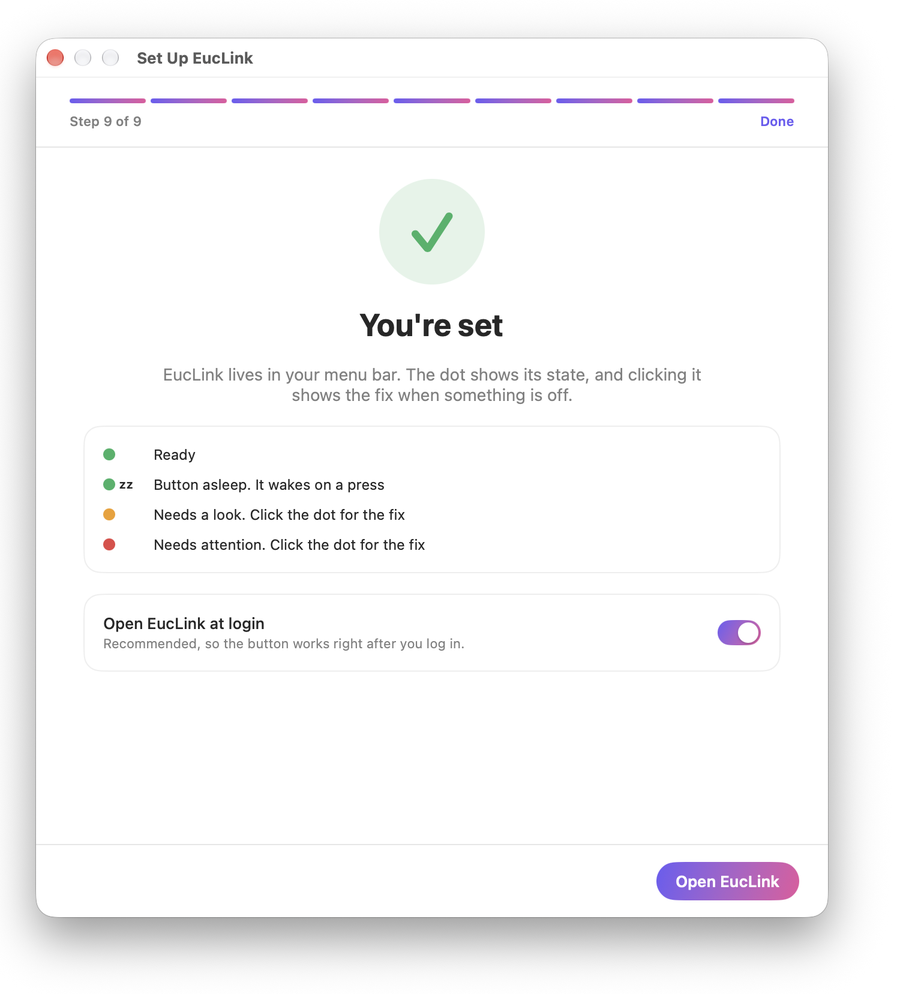
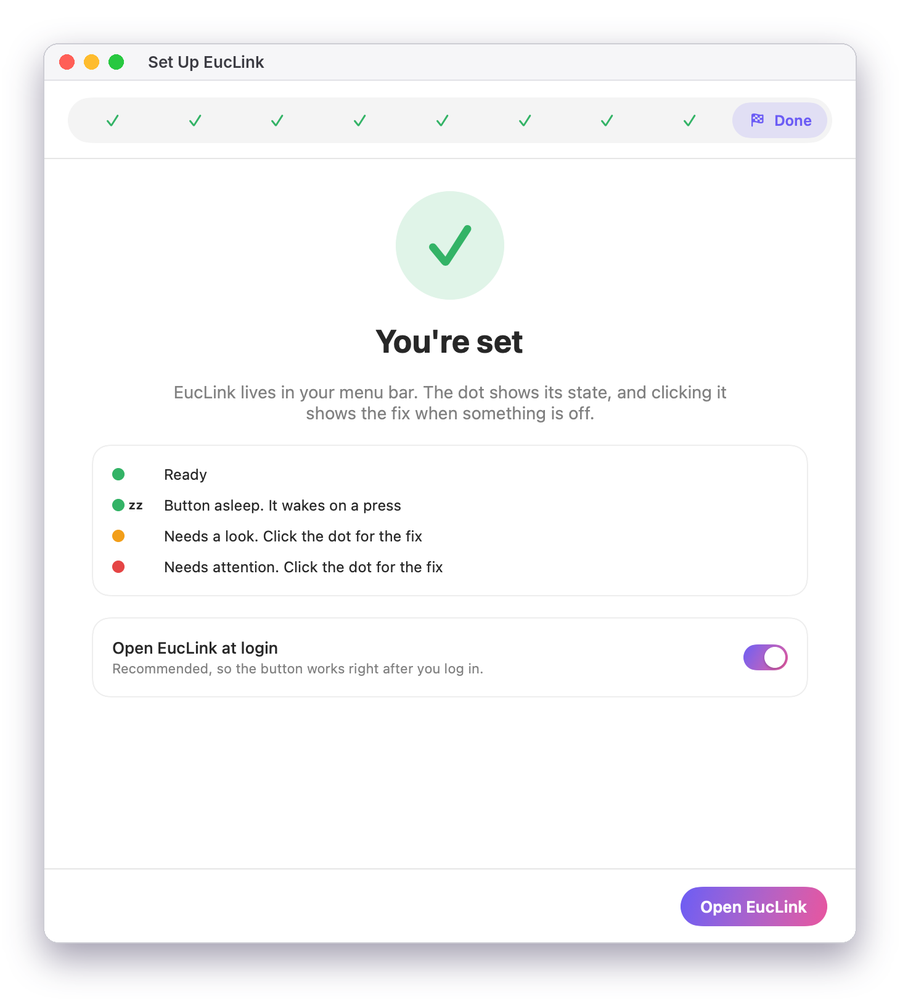
Replace the setup pictures with renders of the current guide
The nine step pictures showed the old guide: the segmented progress strip, a
separate Allow button and Continue. They are now drawn by the app's own renderer
on CI from the current views, with a window frame added, and show the tab bar,
the single main button, the named settings links, the drag picture and the green
confirmation. They use sample data, so no device names need blurring. The README
says the pictures are drawn with sample data and that controls follow the
reader's macOS version, and adds a picture of the Bluetooth allowed state.

diff --git a/README.md b/README.md
@@ -28,11 +28,14 @@ EucLink was built and tested with a cheap Bluetooth camera-shutter remote like t
 the kind sold for taking selfies with a phone. Presentation clickers and other small Bluetooth
 remotes work the same way.
 
-In the screenshots below the remote appears as **BT1818**. That is the name its Bluetooth chip
-reports when it pairs, so it is what you see in Bluetooth settings and in EucLink's list of
-devices. macOS treats the remote as an HID device: a tiny keyboard that sends one key, usually
-Volume Up. Your remote may report a different name, such as AB Shutter3. EucLink does not care
-about the name or the key; it learns whichever your remote sends.
+A remote like this reports a short name when it pairs, for example **BT1818** or **AB Shutter3**.
+That name is what you see in Bluetooth settings and in EucLink's list of devices. macOS treats
+the remote as an HID device: a tiny keyboard that sends one key, usually Volume Up. EucLink
+does not care about the name or the key; it learns whichever your remote sends.
+
+The setup pictures below are drawn by the app itself with sample data, so the remote there is
+called AB Shutter3. Buttons and switches look slightly different on your Mac, where they follow
+your macOS version.
 
 ## What EucLink does, and what it needs
 
@@ -156,16 +159,20 @@ first. macOS ties permissions to the app's location, so do this before granting 
 
 ### 2. Allow Bluetooth
 
-Click **Allow Bluetooth**, then **Allow** in the macOS prompt. EucLink only uses this to see
-whether your button is connected or asleep.
+Click **Allow Bluetooth**, the main button at the bottom, then **Allow** in the macOS prompt.
+EucLink only uses this to see whether your button is connected or asleep.
 
-<p align="center"><img src="docs/images/step-2-bluetooth.png" width="480" alt="Allow Bluetooth"></p>
+<p align="center"><img src="docs/images/step-2-bluetooth.png" width="480" alt="Allow Bluetooth: the main button reads Allow Bluetooth"></p>
+
+A green card confirms it and counts the permissions done. Click **Continue**.
+
+<p align="center"><img src="docs/images/step-2-bluetooth-allowed.png" width="480" alt="Bluetooth allowed, 1 of 3 permissions done; the main button reads Continue"></p>
 
 
 ### 3. Choose your button
 
 Press your button once. Most clickers connect only when pressed, so it moves to **Connected now**.
-Select it. Here the remote is **BT1818**; the names of other paired devices are blurred.
+Select it, then click **Continue**. The picture shows sample devices.
 
 <p align="center"><img src="docs/images/step-3-button.png" width="480" alt="Choose your button"></p>
 
@@ -187,7 +194,7 @@ When the step is done, a green note says that EucLink now holds your button.
 Press the button once. EucLink learns which key the button sends, for example Volume Up, and shows
 its name. Every clicker is different, so this replaces any device list.
 
-<p align="center"><img src="docs/images/step-5-learn.png" width="480" alt="Press your button"></p>
+<p align="center"><img src="docs/images/step-5-learn.png" width="480" alt="Press your button: EucLink heard Volume Up"></p>
 
 
 ### 6. Choose what it does
@@ -224,7 +231,7 @@ Press the button. For push-to-talk, hold it, speak, then let go. The step turns 
 **It works**, and shows what the press did. If nothing happens, wake the button with a press, and
 check that the recorded shortcut matches the target app's global shortcut.
 
-<p align="center"><img src="docs/images/step-8-test.png" width="480" alt="Try it: waiting for a press"></p>
+<p align="center"><img src="docs/images/step-8-test.png" width="480" alt="Try it: it works"></p>
 
 ### 9. Done
 
@@ -392,7 +399,9 @@ attaches it to each release with the install steps from `.github/release-install
 ### Rendering the guide images
 
 `./build.sh docs` renders every guide step from the app's own views with sample data into
-`docs/images/guide-*.png`.
+`docs/images/guide-*.png`. The Build workflow renders the same pictures on every push and
+uploads them as the `guide-pictures` artifact. The step pictures in this README are those
+renders with a window frame added.
 
 ### How it works
 
